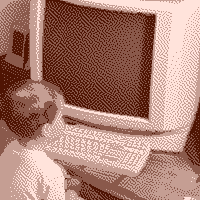
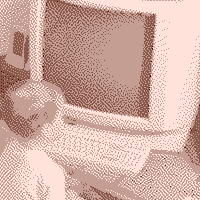
Updated article, improved images

diff --git a/src/blog/2024-01-04-100-Images/2024-01-04-100-Images.md b/src/blog/2024-01-04-100-Images/2024-01-04-100-Images.md
@@ -94,15 +94,36 @@ With all of this we shaved of even more bits and bytes. The image is now just 3.
 
 ![The original image recolored, dithered using Atkinson, reduced colors and resized to 200x200](https://i.imgur.com/05D55wl.png)
 
-# Removing metadata
+# One last compression
 
-Every file has some metadata attached to it. This can be when the image was created, where it was taken or who made it. We don't need those bytes, let's remove them. For this we will need another tool called [exiftool](https://exiftool.org/) which can manage the metadata of basically every file you throw at it. With the command `exiftool -all= input.png` all metadata gets removed from the image, leaving behind an image with absolutely nothing we don't need. You might have noticed that we are not setting an output, that's because exiftool does this for us. It removes all metadata and copies it to a file with the original filename, but keeps a copy of the original called `input.png_original` in our case. With the metadata stripped the image is now just a measly 3.41kb big, a reduction of 99.76% of the original or 420%. Nice.
+For this step we will use another tool that will compress our images just a tiny bit more. This tool is called [oxipng](https://github.com/shssoichiro/oxipng) and with the command `oxipng -o max --fast -Z --strip all input.png --out output.png` we can reduce the image to a size of just 3.09kb, a reduction of 464x times. What the command does is:
+
+It uses `oxipng` with the max optimization `-o max`,
+perfoms a fast compression evaluation of each enabled filter, followed by a single main
+compression trial of the best result with `--fast`,
+uses the much slower but stronger Zopfli compressor for main compression trials with `-Z`,
+strips all metadata of the image with `--strip all` and outputs the file to `output.png`.
 
 ![The original image recolored, dithered using Atkinson, reduced colors and resized to 200x200 and stripped metadata](https://i.imgur.com/rwT3TGF.png)
 
 # Changing filetype
 
-At this point my story ends since I need the image to be a PNG for the Open-Graph preview-image. But you can still go smaller. For this last step we are using `magick` again to convert our image into a `gif` to make it just a bit smaller. With `magick input.png output.gif` we reached our final image with a filesize of 3.39kb. To bring it all together, let's look at the steps we took and how much they made the image smaller:
+At this point my story ends since I need the image to be a PNG for the Open-Graph preview-image. But you can still go smaller. For this last step we are using [https://github.com/GoogleChromeLabs/squoosh](squoosh) again to convert our image into a `avif` to make it just a bit smaller. 
+
+With the settings:
+
+- Reduce Pallete
+  - Colors 4
+  - Dithering 0
+- Compress
+  - Avif
+  - Quality: 20
+  - Extra Chroma Compression
+  - Effort: 10
+
+We reach our final filesize of 2.66kb.
+
+ To bring it all together, let's look at the steps we took and how much they made the image smaller:
 
 Step | Bit-size | Saved in %
 ---|---|---
@@ -110,12 +131,12 @@ Original | 1.469.425 | 0%
 Dithering and resizing |  5.534 | 265.52%
 Coloring | 5.418 | 271.21%
 Reducing colors | 3.665 | 400.93%
-Removing metadata | 3.496 | 420.31%
-Changing filetype | 3.475 | **422.85%**
+One last compression | 3.166 | 464.12%
+Changing filetype | 2.726 | **539.04%**
 
 With all of those steps we reduced the image to less than a tenth of the original NES Mario which I am quite happy with. If you have any more ideas to make the images even smaller please let me know. If you want a script that does all of the steps above you can use this Powershell-script:
 
-```ps1
+```sh
 # Command 1: didder
 ./didder -i input.png -p "black 2b2b2b 565656 DCDCDC" -r "4f1403 8a594b c59e93 ffe3db" --width 200 --height 200 -c size -o output.png edm Atkinson | Out-Null
 
@@ -126,5 +147,5 @@ magick output.png -colors 4 output.png | Out-Null
 ./exiftool -all= output.png 2>$null
 
 # Command 4: magick
-magick output.png output.gif | Out-Null
+./oxipng -o max --fast -Z --strip all output.png | Out-Null
 ```
